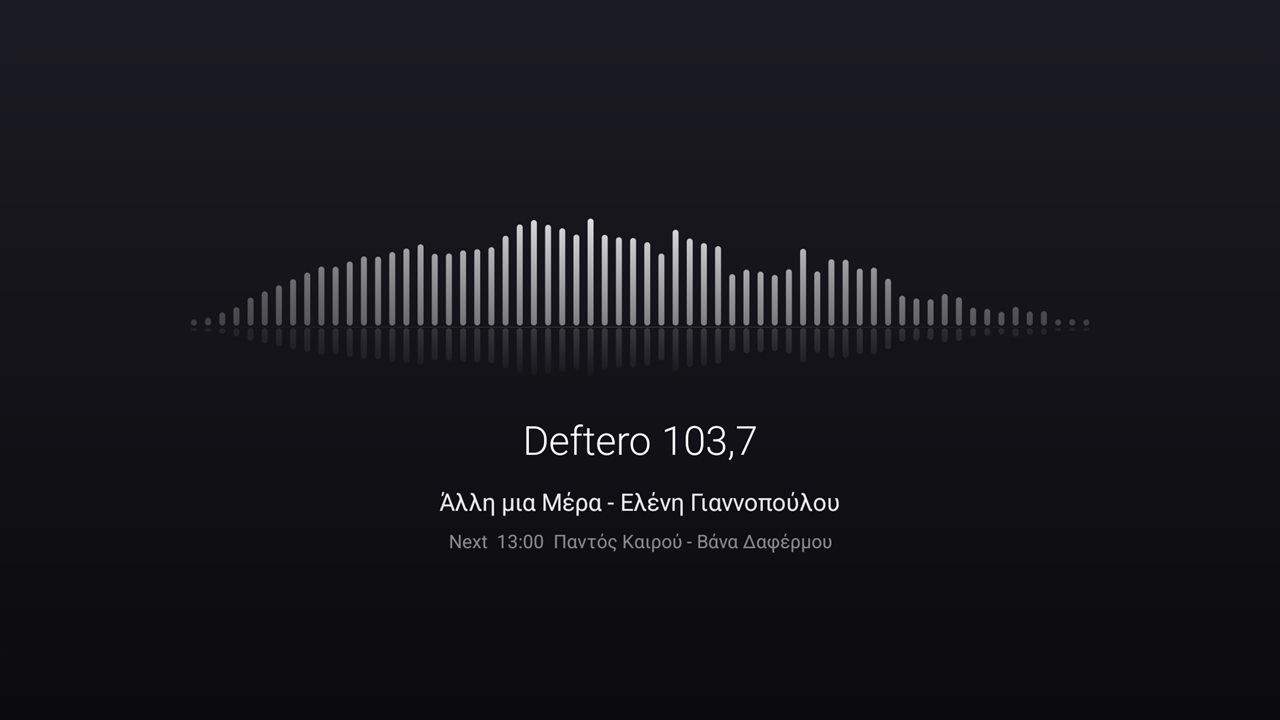
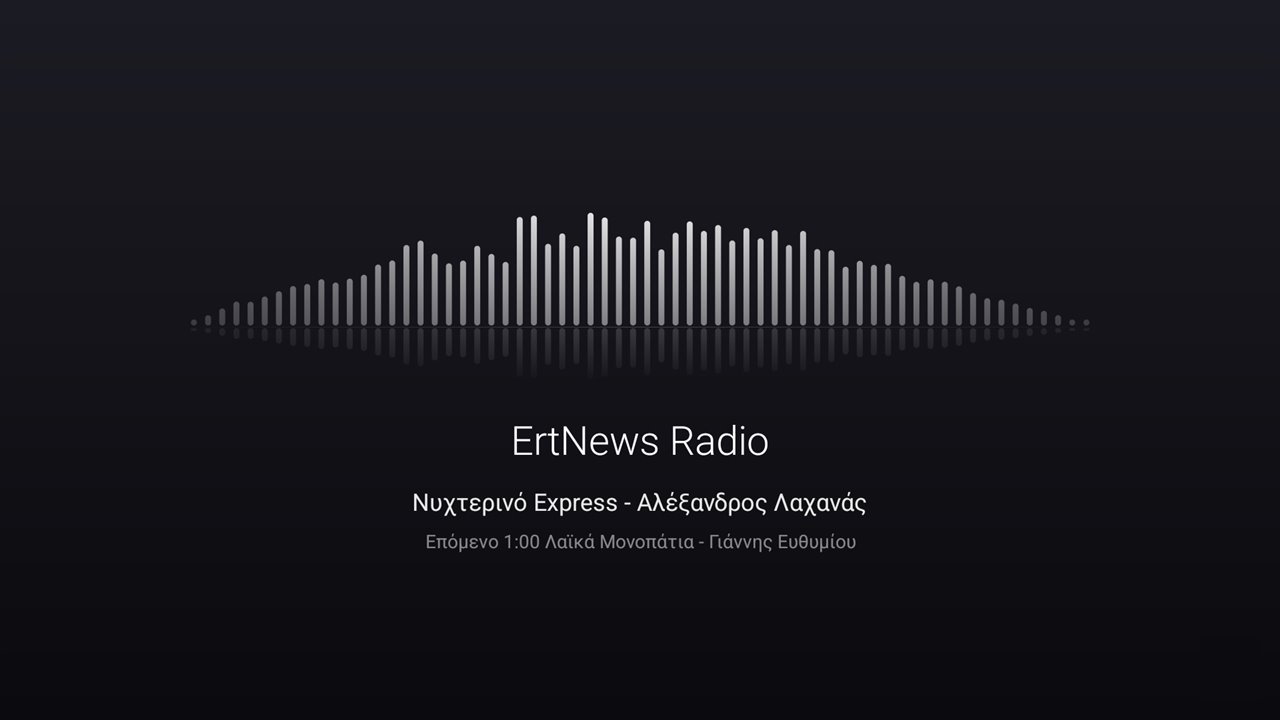
README: live radio screenshot with the spectrum; Greek player options screenshot

diff --git a/README.el.md b/README.el.md
@@ -136,7 +136,7 @@
 </tr>
 <tr>
 <td><img src="docs/screenshots/record-from-guide.jpg" alt="Οδηγός με κόκκινη κουκκίδα σε εκπομπή που έχει οριστεί για εγγραφή"></td>
-<td><img src="docs/screenshots/player-options.jpg" alt="Επιλογές player: Παύση, Ήχος, Υπότιτλοι, Εγγραφή αυτής της εκπομπής, Οδηγός προγράμματος, Εγγραφές"></td>
+<td><img src="docs/screenshots/el/player-options.jpg" alt="Επιλογές player: Παύση, Ήχος, Υπότιτλοι, Εγγραφή αυτής της εκπομπής, Οδηγός προγράμματος, Εγγραφές"></td>
 </tr>
 <tr>
 <td><img src="docs/screenshots/player-banner.jpg" alt="Πληροφοριακό banner ενώ βλέπεις: λογότυπο, αριθμός και όνομα καναλιού, εκπομπή, πρόοδος, τι ακολουθεί"></td>
